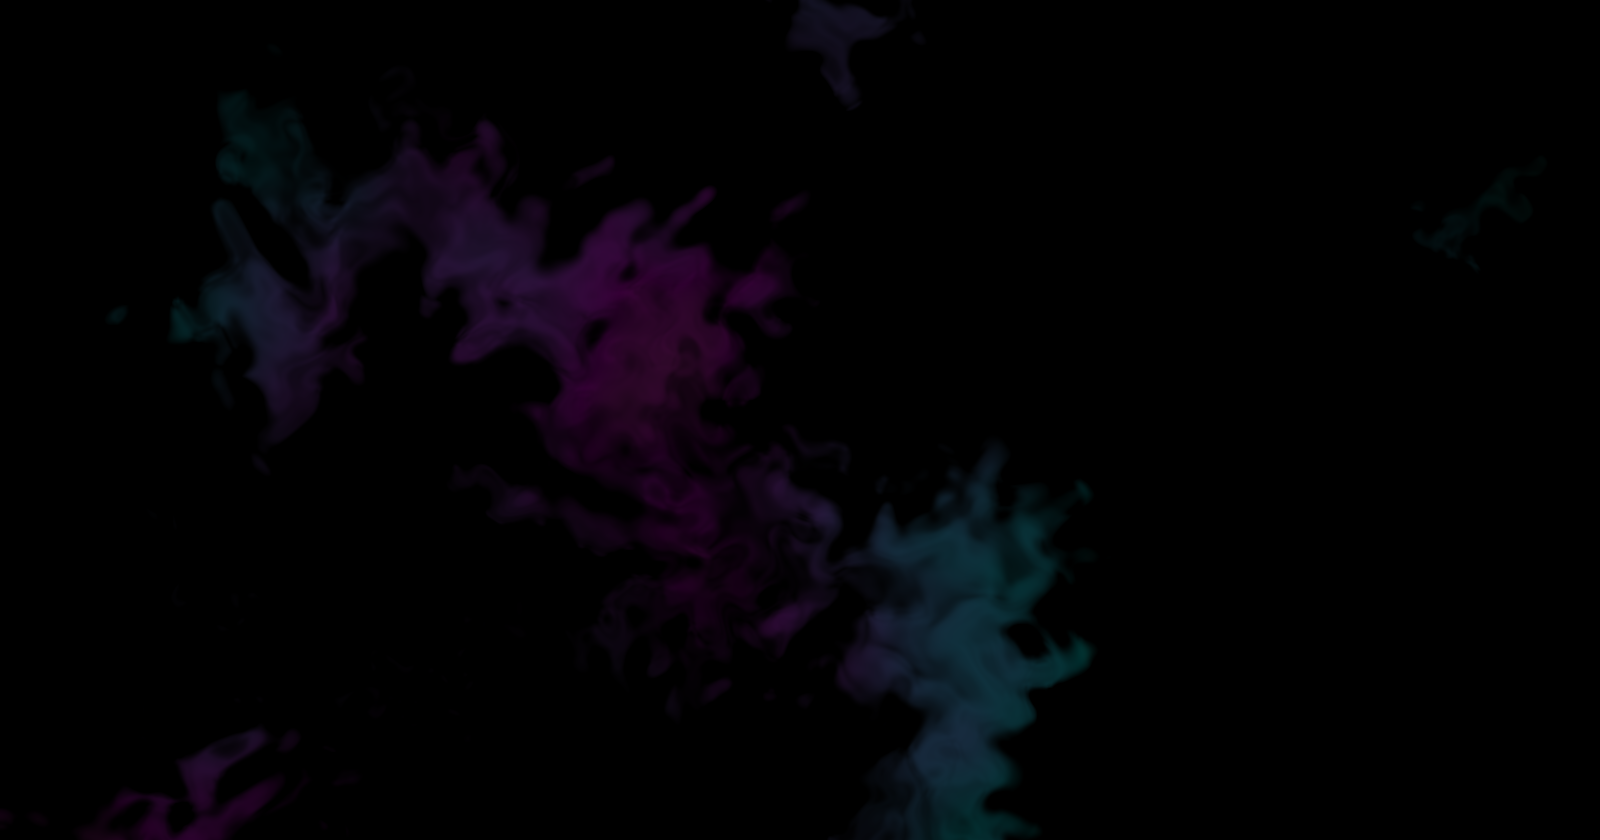
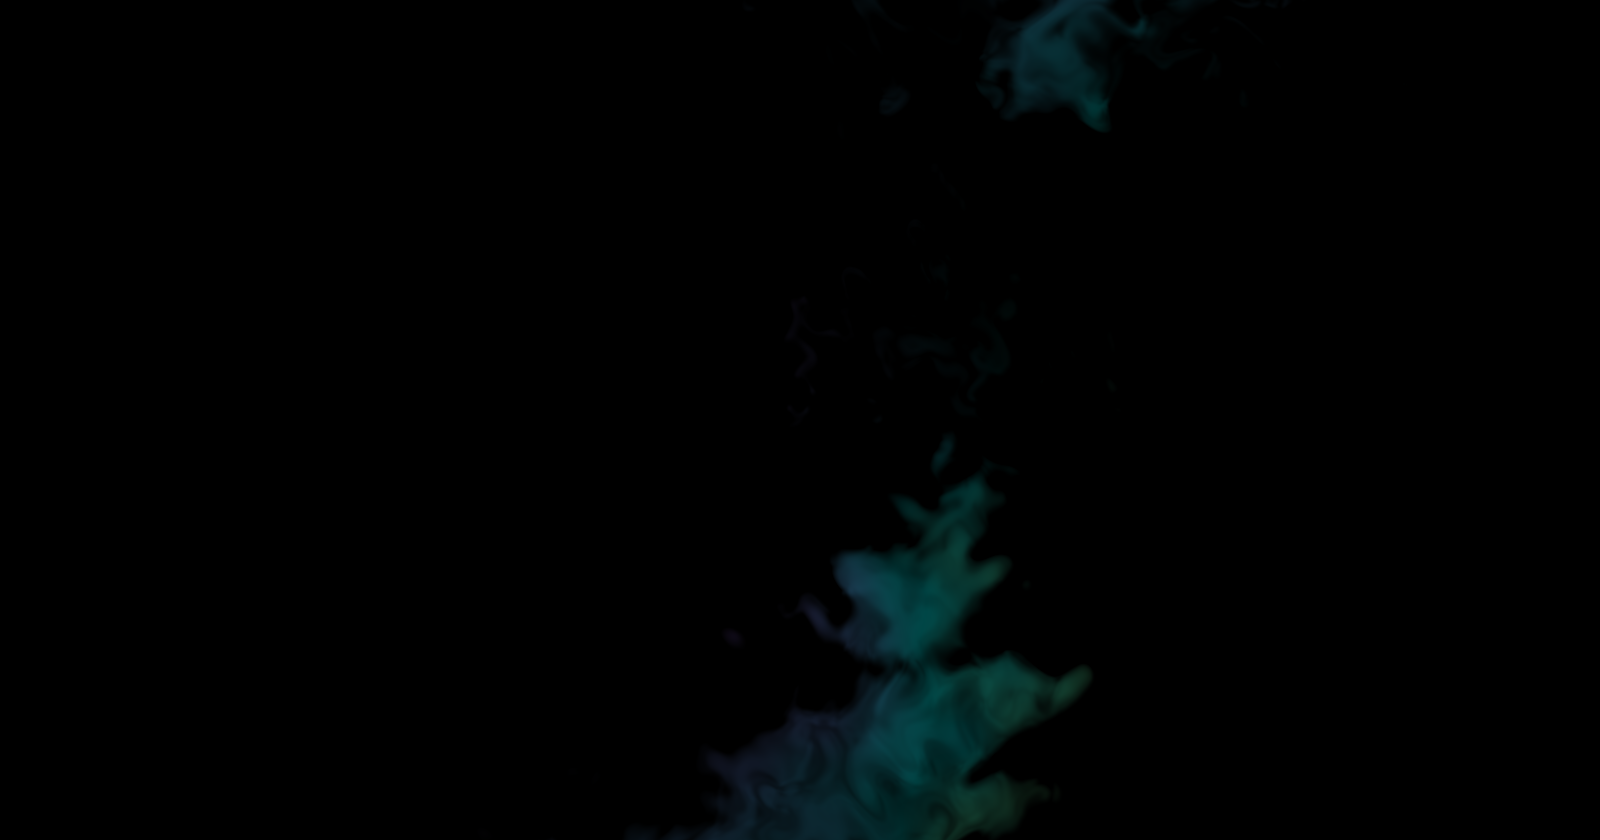
001: steadier ink; warp fast-forward for stateful builds; capture tooling; register 002-004

diff --git a/builds/001-ink-flow/index.html b/builds/001-ink-flow/index.html
@@ -42,8 +42,8 @@ out vec4 outColor;
 const float NOISE_SCALE   = 2.2;    // bigger = tighter swirls
 const float FLOW_STRENGTH = 0.0016; // how far pixels travel per frame
 const float DRIFT         = 0.06;   // how fast the flow field itself evolves
-const float DECAY         = 0.995;  // 1.0 = ink never fades
-const float INK_AMOUNT    = 0.016;  // strength of the ambient ink source
+const float DECAY         = 0.996;  // 1.0 = ink never fades
+const float INK_AMOUNT    = 0.024;  // strength of the ambient ink source
 // -----------------------------------------------------------------
 
 // value noise + fbm ("fractal Brownian motion" — noise stacked in octaves)
@@ -243,12 +243,11 @@ const showU = {
 };
 
 let read = 0;
-const t0 = performance.now();
+let simT = 0, lastNow = 0;
+const DT = 1 / 60;   // simulation runs on its own clock, one tick per frame
 
-function frame() {
-  const t = (performance.now() - t0) / 1000;
-
-  // --- simulation pass: prev frame in, next frame out ---
+function step(dt) {
+  simT += dt;
   gl.bindFramebuffer(gl.FRAMEBUFFER, targets[1 - read].fbo);
   gl.viewport(0, 0, W, H);
   gl.useProgram(simProg);
@@ -256,14 +255,16 @@ function frame() {
   gl.bindTexture(gl.TEXTURE_2D, targets[read].tex);
   gl.uniform1i(simU.prev, 0);
   gl.uniform2f(simU.res, W, H);
-  gl.uniform1f(simU.time, t);
+  gl.uniform1f(simU.time, simT);
   gl.uniform2f(simU.mouse, mouse.x, mouse.y);
   gl.uniform2f(simU.mouseVel, mouse.vx, mouse.vy);
   gl.uniform1f(simU.mouseOn, mouse.on);
   gl.drawArrays(gl.TRIANGLES, 0, 3);
   read = 1 - read;
+  mouse.vx *= 0.5; mouse.vy *= 0.5; // velocity fades between events
+}
 
-  // --- display pass: tone-map the sim to the screen ---
+function render() {
   gl.bindFramebuffer(gl.FRAMEBUFFER, null);
   gl.viewport(0, 0, W, H);
   gl.useProgram(showProg);
@@ -272,9 +273,18 @@ function frame() {
   gl.uniform1i(showU.tex, 0);
   gl.uniform2f(showU.res, W, H);
   gl.drawArrays(gl.TRIANGLES, 0, 3);
+}
 
-  mouse.vx *= 0.5; mouse.vy *= 0.5; // velocity fades between events
+// ?warp=N pre-runs N frames before first paint — headless capture
+// can't fast-forward requestAnimationFrame, so the piece does it itself
+const warp = Math.min(20000, parseInt(new URLSearchParams(location.search).get('warp'), 10) || 0);
+for (let i = 0; i < warp; i++) step(DT);
 
+function frame(now) {
+  const dt = lastNow ? Math.min((now - lastNow) / 1000, 0.05) : DT;
+  lastNow = now;
+  step(dt);
+  render();
   requestAnimationFrame(frame);
 }
 requestAnimationFrame(frame);

diff --git a/README.md b/README.md
@@ -24,6 +24,9 @@ it has never been.
 
 | # | piece | techniques | live | notes |
 |---|-------|------------|------|-------|
+| 004 | **ember field** | gpu particles · flow field · additive trails | [run](https://cjdupre.github.io/tumult/builds/004-ember-field/) | [notes](builds/004-ember-field/NOTES.md) |
+| 003 | **cathedral** | ray marching · mandelbox · orbit trap | [run](https://cjdupre.github.io/tumult/builds/003-cathedral/) | [notes](builds/003-cathedral/NOTES.md) |
+| 002 | **coral bloom** | reaction-diffusion · gray-scott · gradient lighting | [run](https://cjdupre.github.io/tumult/builds/002-coral-bloom/) | [notes](builds/002-coral-bloom/NOTES.md) |
 | 001 | **ink flow** | feedback loop · curl noise · advection · cosine palette | [run](https://cjdupre.github.io/tumult/builds/001-ink-flow/) | [notes](builds/001-ink-flow/NOTES.md) |
 
 Every build is one self-contained `index.html` and one `NOTES.md` recording
@@ -54,6 +57,11 @@ outColor  = vec4(prev * DECAY + inject(p), 1.0);
 Because the buffer is never cleared, structure accumulates: history is the
 medium. The rest — noise octaves, palettes, tone curves — is seasoning.
 Each build's `NOTES.md` documents its particular seasoning.
+
+Stateful builds also accept `?warp=N`, which pre-runs N simulation frames
+before first paint — headless browsers can't fast-forward
+`requestAnimationFrame`, so each piece knows how to fast-forward itself
+(`tools/capture.sh` uses this to shoot the previews).
 
 ## running locally
 